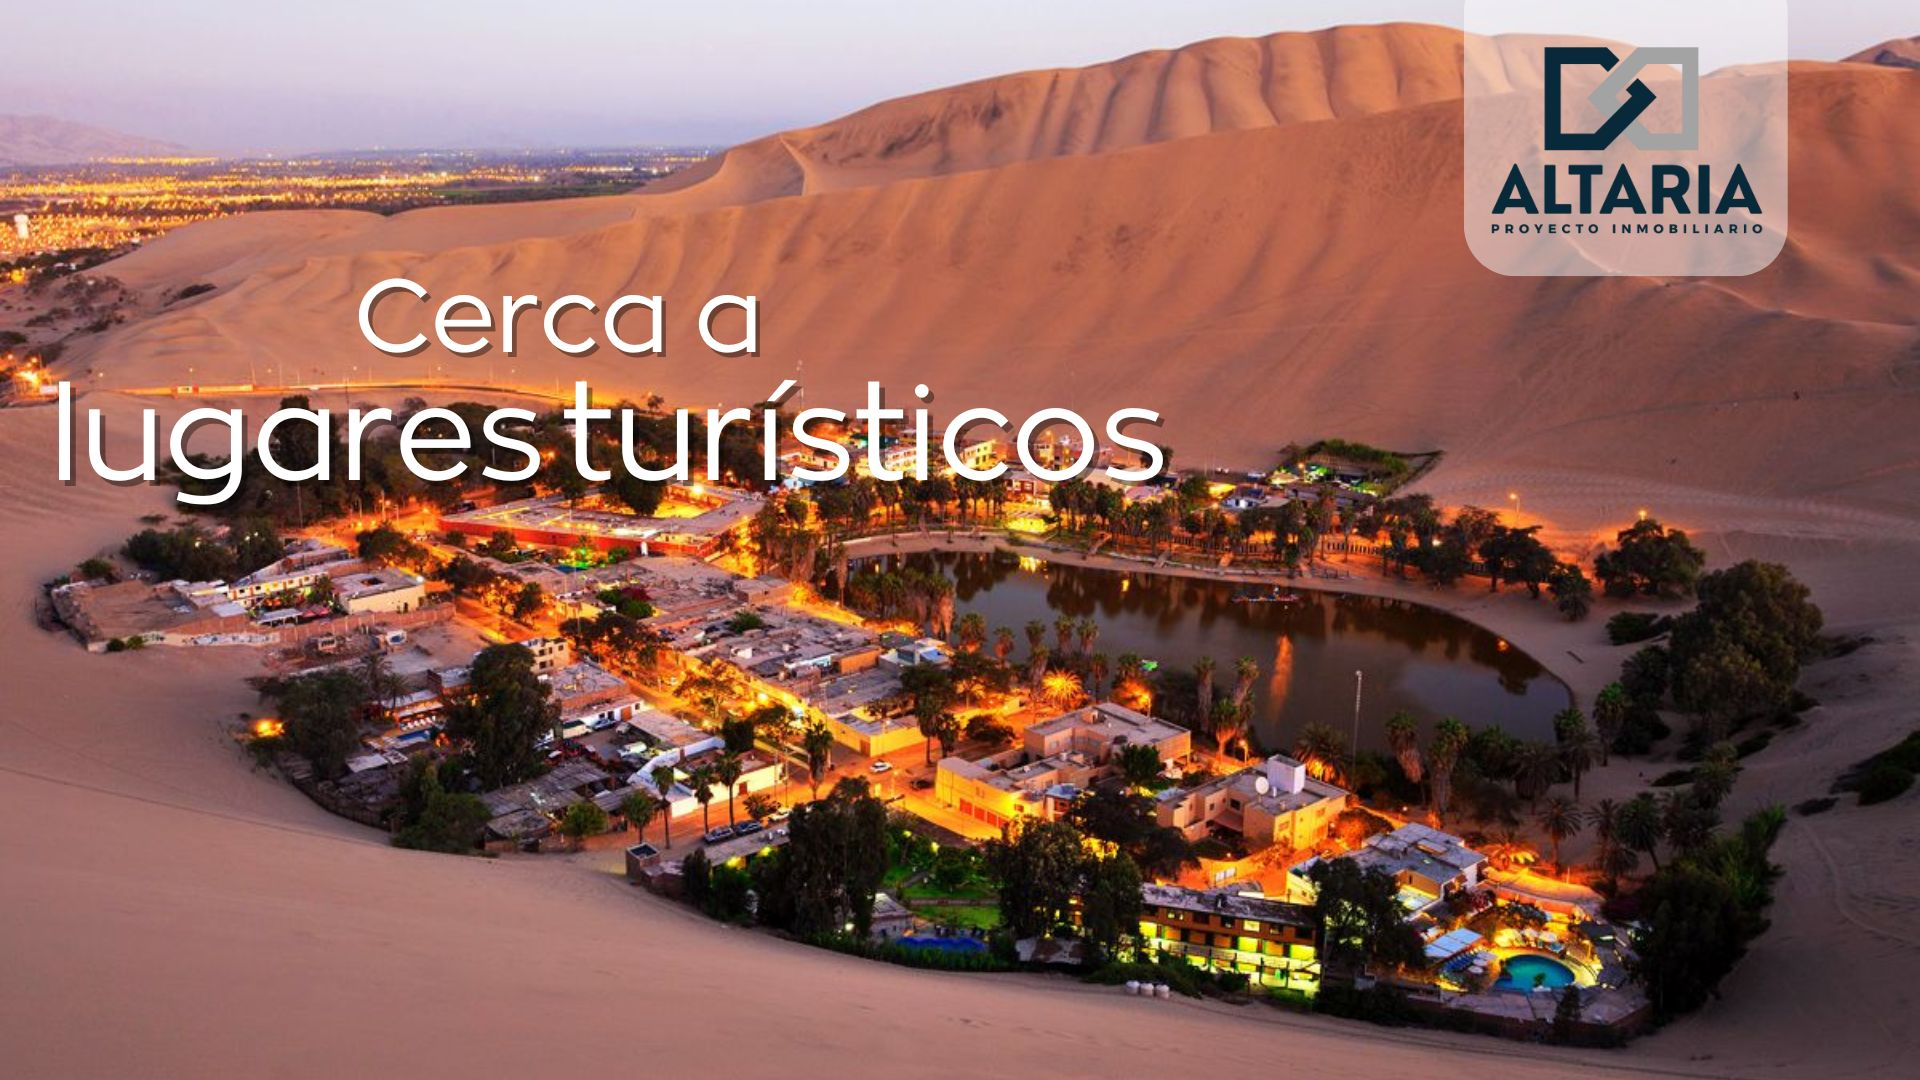
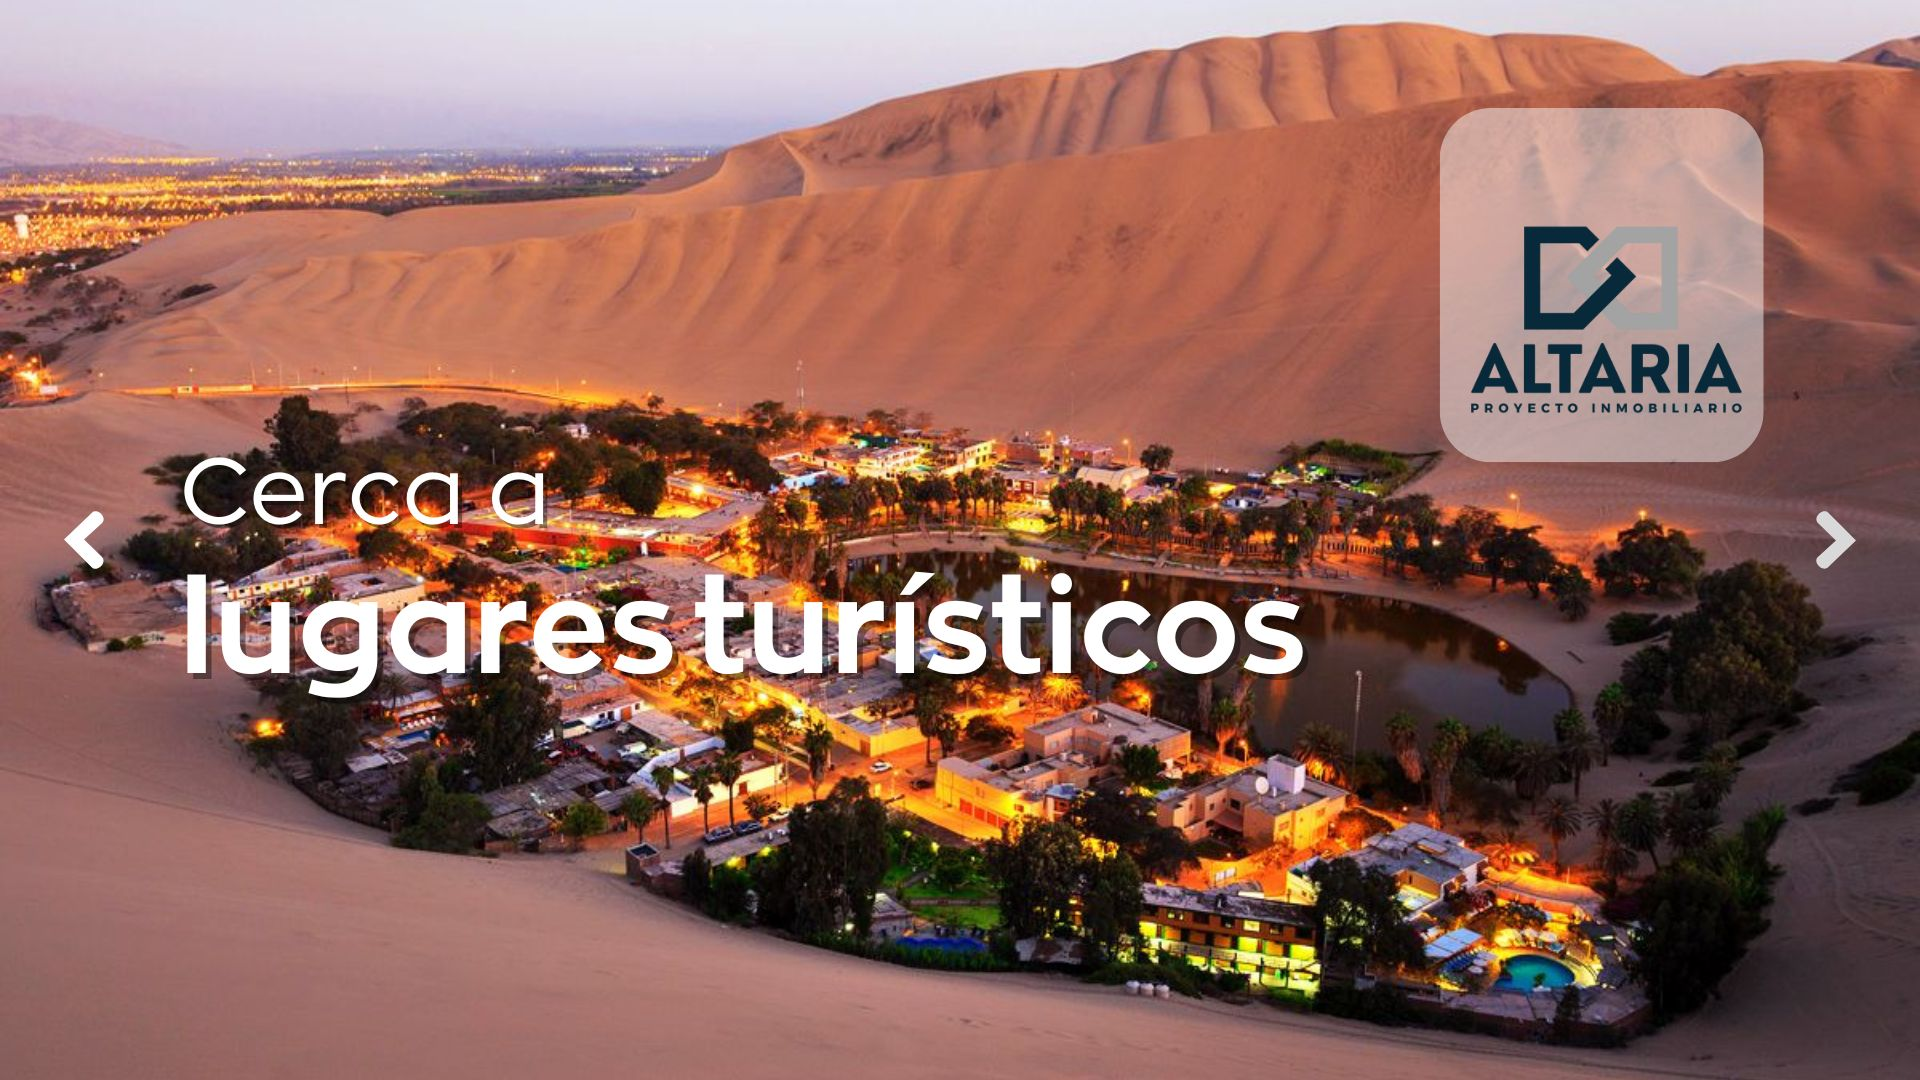
Mejorando la pagina con imagenes carrusel

diff --git a/styles.css b/styles.css
@@ -103,5 +103,69 @@ footer {
 /*------------------------------------------*/
 
 
+.slider-wrapper {
+    position: relative;
+    max-width: 5000px;
+    margin: 0 auto;
+    overflow: hidden; /* Para ocultar las imágenes que se salen del contenedor */
+    display: block;
+    margin-top: -2199px; /* Asegura que el slider esté debajo del encabezado */
+
+}
+
+.slider {
+    display: flex;
+    aspect-ratio: 17 / 7;
+    transition: transform 0.3s ease; /* Para un desplazamiento suave */
+    width: 100%;
+    overflow: hidden;
+    scroll-snap-type:  x mandatory;
+    scroll-behavior: smooth;
+    box-shadow: 0 .25 .5rem #b4121226;
+    border-radius: .5rem;
+
+
+}
+
+.slider img {
+    flex: 1 0 100%;
+    object-fit: cover;
+    transition: transform 0.3s ease;
+
+}
+
+.slider-nav {
+    display: flex;
+    gap: 80rem;
+    position: absolute;
+    bottom: 1.25rem;
+    left: 50%;
+    transform: translateX(-50%);
+    z-index: 10; /* Asegura que los botones estén por encima de las imágenes */
+    padding: -50rem;
+    border-radius: 0rem;
+}
+
+.slider-nav a {
+    width: 40rem;
+    height: 40rem;
+    border-radius: 100%;
+    background-color: #ffffff;
+    opacity: 0;
+    transition: opacity 250ms ease;
+}
+
+
+
+
+
+
+
+
+
+
+
+
+
 
 

diff --git a/index.html b/index.html
@@ -45,5 +45,17 @@
         <p>&copy; 2025 Altaria Residencia - Todos los derechos reservados</p>
     </footer>
 
+    <section class="container"> 
+        <div class="slider-wrapper"> 
+            <div class="slider">
+                <img id="slider-1" src="zona_residencial.jpg" alt="">
+                <img id="slider-2" src="cerca_turisticos.jpg" alt="">
+            </div>
+            <div class="slider-nav">
+                <a href="#slider-1" data-target="0"></a>
+                <a href="#slider-2" data-target="1"></a>
+            </div>
+        </div>
+    </section>
 </body>
 </html>
